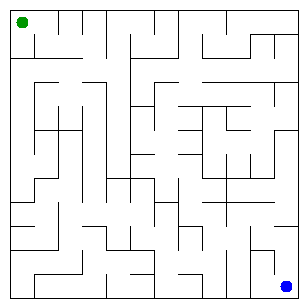
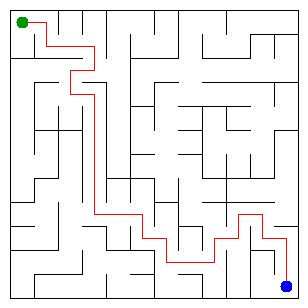
Implement Mission 3 with iterative DFS

diff --git a/output/maze.html b/output/maze.html
@@ -24,7 +24,7 @@ button{font:inherit;padding:3px 10px;border:1px solid #999;background:#fff;borde
 <div id="wrap"><canvas id="cv"></canvas></div>
 <div id="info"></div>
 <script>
-const D = {"rows":12,"cols":12,"a":[0, 24, 66, 119, 62, 42, 78, 57, 126, 94, 126, 69, 102, 26, 30, 56, 121, 70, 6, 110, 9, 38, 134, 105, 120, 105, 63, 77, 3, 28, 131, 124, 123, 14, 64, 120, 20, 115, 48, 97, 68, 136, 101, 23, 43, 99, 39, 31, 10, 116, 29, 45, 37, 37, 106, 116, 31, 60, 79, 46, 91, 130, 8, 106, 15, 26, 53, 83, 72, 27, 111, 1, 54, 72, 17, 51, 114, 66, 42, 36, 4, 104, 32, 29, 95, 71, 52, 108, 96, 118, 127, 88, 85, 124, 138, 5, 58, 91, 100, 94, 89, 110, 117, 44, 16, 40, 98, 103, 65, 68, 25, 100, 61, 38, 98, 87, 19, 117, 69, 133, 4, 7, 115, 7, 58, 82, 13, 24, 57, 114, 3, 75, 85, 33, 34, 14, 45, 32, 16, 113, 59, 129, 52, 128, 86, 84, 25, 70, 48, 122, 22, 93, 123, 56, 81, 102, 67, 15, 142, 74, 2, 21, 82, 51, 86, 79, 53, 93, 140, 61, 27, 64, 0, 88, 128, 49, 54, 18, 96, 87, 118, 97, 121, 9, 74, 101, 132, 125, 30, 40, 77, 81, 76, 109, 139, 99, 107, 73, 12, 20, 11, 43, 78, 44, 89, 65, 127, 55, 47, 112, 46, 111, 2, 19, 13, 80, 130, 22, 129, 17, 50, 103, 63, 125, 108, 84, 10, 33, 90, 67, 104, 36, 5, 141, 109, 55, 62, 80, 92, 34, 21, 50, 6, 28, 75, 8, 41, 90, 92, 39, 35, 41, 112, 137, 135, 12, 1, 73, 122, 18, 76, 49, 60, 113],"b":[1, 36, 67, 131, 74, 43, 79, 58, 127, 95, 138, 81, 114, 38, 31, 68, 122, 82, 18, 111, 10, 39, 135, 106, 121, 117, 75, 78, 15, 40, 143, 136, 124, 15, 76, 132, 21, 127, 60, 109, 80, 137, 113, 35, 44, 100, 51, 32, 11, 128, 30, 46, 38, 49, 118, 117, 43, 72, 91, 58, 103, 142, 20, 107, 27, 27, 65, 95, 84, 28, 123, 13, 66, 73, 18, 63, 126, 78, 54, 48, 16, 116, 33, 41, 107, 83, 64, 109, 97, 119, 128, 100, 86, 125, 139, 17, 70, 92, 112, 106, 101, 122, 118, 45, 28, 52, 99, 104, 66, 69, 26, 101, 73, 50, 110, 99, 31, 129, 70, 134, 5, 8, 116, 19, 59, 83, 14, 25, 69, 115, 4, 87, 97, 34, 35, 26, 57, 44, 17, 114, 71, 141, 53, 140, 98, 85, 37, 71, 49, 123, 34, 94, 135, 57, 82, 103, 68, 16, 143, 86, 14, 33, 94, 52, 87, 80, 54, 105, 141, 62, 39, 65, 12, 89, 129, 50, 55, 30, 108, 88, 130, 98, 133, 21, 75, 102, 133, 126, 42, 41, 89, 93, 88, 121, 140, 111, 119, 85, 24, 32, 23, 55, 90, 56, 90, 77, 139, 56, 59, 124, 47, 112, 3, 20, 25, 81, 131, 23, 130, 29, 51, 115, 64, 137, 120, 96, 22, 45, 91, 79, 105, 37, 6, 142, 110, 67, 63, 92, 93, 46, 22, 62, 7, 29, 76, 9, 53, 102, 104, 40, 47, 42, 113, 138, 136, 13, 2, 74, 134, 19, 77, 61, 61, 125],"cost":[971, 631, 861, 744, 554, 288, 562, 275, 91, 354, 403, 489, 539, 455, 191, 434, 854, 534, 660, 330, 184, 634, 374, 105, 21, 517, 218, 813, 392, 400, 565, 68, 263, 461, 853, 538, 2, 37, 510, 925, 112, 5, 871, 341, 246, 92, 314, 880, 280, 984, 588, 6, 74, 604, 205, 532, 10, 933, 431, 132, 321, 765, 515, 332, 254, 282, 555, 344, 916, 243, 910, 978, 23, 998, 893, 422, 623, 683, 331, 833, 784, 177, 247, 104, 160, 164, 189, 56, 881, 391, 637, 636, 603, 943, 737, 648, 208, 284, 646, 230, 577, 103, 768, 454, 865, 77, 15, 990, 523, 675, 87, 52, 828, 589, 788, 121, 249, 404, 632, 168, 289, 11, 864, 172, 39, 977, 750, 81, 60, 148, 622, 670, 749, 908, 405, 566, 395, 475, 418, 95, 113, 689, 333, 866, 425, 226, 754, 981, 200, 862, 363, 44, 546, 460, 849, 582, 686, 438, 952, 237, 466, 760, 83, 109, 696, 424, 969, 484, 238, 847, 244, 149, 281, 99, 504, 518, 673, 213, 228, 163, 624, 820, 917, 669, 313, 672, 173, 186, 905, 844, 777, 558, 79, 98, 80, 265, 899, 193, 530, 118, 979, 474, 428, 552, 488, 937, 727, 396, 20, 920, 493, 107, 117, 348, 41, 635, 397, 578, 49, 353, 591, 143, 945, 286, 470, 730, 457, 63, 152, 365, 429, 204, 630, 988, 769, 884, 494, 873, 487, 96, 936, 33, 469, 845, 307, 842, 872, 994, 355, 1, 868, 535, 805, 964, 364, 90, 924, 967, 757, 869, 767, 381, 306, 53],"open":[1,1,1,1,1,1,1,1,1,1,1,1,1,1,1,1,1,1,1,1,1,1,1,1,1,1,1,1,1,1,1,1,1,1,1,1,1,1,1,1,1,1,1,1,1,1,1,1,1,1,1,1,1,1,1,1,1,1,1,1,1,1,1,1,1,1,1,1,1,1,1,1,1,1,1,1,1,1,1,1,1,1,1,1,1,1,1,1,1,1,1,1,1,1,1,1,1,1,1,0,1,1,0,1,1,1,1,1,1,1,1,1,1,1,1,1,1,1,1,1,1,1,0,1,1,0,1,1,0,0,0,1,1,1,1,0,0,0,0,1,0,1,0,1,1,0,0,0,0,0,1,1,1,0,0,0,0,0,1,1,1,0,0,0,0,0,0,0,0,0,0,0,1,0,0,0,1,0,0,0,0,0,0,1,0,0,0,0,0,0,0,0,0,0,0,0,0,0,0,0,0,0,1,0,0,0,0,0,1,0,0,0,0,0,0,0,0,0,0,0,0,0,0,0,0,0,0,0,0,0,0,0,0,0,0,0,0,0,0,0,0,0,0,0,0,0,0,0,0,0,0,0,0,0,0,0,0,0,0,0,0,0,0,0],"order":[0, 1, 2, 3, 4, 5, 6, 7, 8, 9, 10, 11, 12, 13, 14, 15, 16, 17, 18, 19, 20, 21, 22, 23, 24, 25, 26, 27, 28, 29, 30, 31, 32, 33, 34, 35, 36, 37, 38, 39, 40, 41, 42, 43, 44, 45, 46, 47, 48, 49, 50, 51, 52, 53, 54, 55, 56, 57, 58, 59, 60, 61, 62, 63, 64, 65, 66, 67, 68, 69, 70, 71, 72, 73, 74, 75, 76, 77, 78, 79, 80, 81, 82, 83, 84, 85, 86, 87, 88, 89, 90, 91, 92, 93, 94, 95, 96, 97, 98, 100, 101, 103, 104, 105, 106, 107, 108, 109, 110, 111, 112, 113, 114, 115, 116, 117, 118, 119, 120, 121, 123, 124, 126, 127, 131, 132, 133, 134, 139, 141, 143, 144, 150, 151, 152, 158, 159, 160, 172, 176, 183, 202, 208],"path":[],"zone":[0, 0, 0, 0, 0, 0, 0, 0, 0, 0, 0, 0, 0, 0, 0, 0, 0, 0, 0, 0, 0, 0, 0, 0, 0, 0, 0, 0, 0, 0, 0, 0, 0, 0, 0, 0, 0, 0, 0, 0, 0, 0, 0, 0, 0, 0, 0, 0, 0, 0, 0, 0, 0, 0, 0, 0, 0, 0, 0, 0, 0, 0, 0, 0, 0, 0, 0, 0, 0, 0, 0, 0, 0, 0, 0, 0, 0, 0, 0, 0, 0, 0, 0, 0, 0, 0, 0, 0, 0, 0, 0, 0, 0, 0, 0, 0, 0, 0, 0, 0, 0, 0, 0, 0, 0, 0, 0, 0, 0, 0, 0, 0, 0, 0, 0, 0, 0, 0, 0, 0, 0, 0, 0, 0, 0, 0, 0, 0, 0, 0, 0, 0, 0, 0, 0, 0, 0, 0, 0, 0, 0, 0, 0, 0],"from":[7, 58, 105, 71, 31, 118, 96, 54, 74, 27, 34, 20, 132, 129, 10, 109, 62, 53, 62, 0, 68, 121, 83, 136, 62, 42, 127, 102, 32, 76, 44, 88, 37, 83, 4, 2, 22, 84, 59, 36, 67, 95, 124, 28, 44, 16, 93, 110, 92, 15, 95, 81, 97, 41, 31, 14, 83, 19, 76, 91, 101, 108, 39, 37, 125, 52, 5, 18, 69, 21, 51, 123, 45, 50, 106, 110, 43, 115, 106, 83, 117, 3, 124, 89, 105, 104, 63, 23, 116, 128, 96, 73, 61, 87, 51, 72, 9, 10, 75, 76, 64, 90, 53, 28, 122, 103, 34, 62, 75, 130, 79, 138, 55, 76, 89, 6, 107, 101, 78, 85, 35, 4, 106, 113, 99, 17, 1, 56, 51, 134, 100, 112, 108, 111, 29, 77, 82, 141, 60, 67, 98, 20, 120, 131, 98, 48, 12, 108, 66, 51, 119, 30, 39, 46, 48, 92, 26, 13, 134, 126, 86, 5, 78, 57, 95, 38, 65, 49, 70, 57, 23, 133, 142, 43, 135, 47, 11, 23, 68, 114, 24, 22, 20, 143, 86, 140, 90, 96, 80, 81, 11, 139, 19, 33, 94, 137, 25, 108, 53, 8, 40],"to":[43, 42, 3, 70, 69, 20, 102, 91, 97, 49, 78, 118, 22, 122, 143, 32, 137, 103, 84, 56, 19, 73, 62, 7, 17, 96, 19, 105, 6, 25, 29, 124, 24, 100, 86, 14, 42, 23, 94, 41, 138, 60, 5, 117, 47, 101, 52, 117, 83, 114, 69, 65, 27, 24, 143, 9, 108, 58, 57, 61, 54, 139, 105, 83, 109, 12, 22, 95, 40, 55, 89, 141, 130, 10, 73, 132, 77, 126, 50, 92, 64, 11, 120, 117, 103, 34, 121, 113, 123, 111, 91, 44, 58, 136, 110, 2, 29, 14, 66, 62, 68, 11, 138, 30, 1, 66, 116, 108, 104, 98, 110, 103, 125, 50, 51, 80, 90, 46, 31, 88, 36, 132, 44, 26, 85, 37, 119, 84, 7, 76, 79, 99, 29, 13, 106, 21, 72, 82, 75, 53, 39, 33, 35, 102, 24, 115, 8, 75, 131, 100, 142, 4, 71, 115, 128, 0, 137, 77, 137, 16, 19, 112, 104, 31, 97, 93, 15, 129, 5, 134, 98, 51, 59, 81, 57, 116, 140, 108, 28, 118, 45, 107, 75, 63, 100, 67, 127, 46, 38, 43, 105, 121, 133, 87, 74, 135, 62, 114, 3, 48, 18],"time":[6, 17, 1, 19, 4, 5, 16, 3, 10, 18, 2, 5, 8, 2, 17, 2, 18, 1, 12, 12, 8, 10, 20, 11, 7, 17, 6, 12, 20, 12, 7, 6, 5, 1, 1, 18, 8, 20, 6, 13, 20, 7, 9, 7, 19, 8, 1, 19, 2, 11, 8, 15, 19, 20, 15, 4, 15, 14, 1, 8, 6, 3, 7, 3, 2, 7, 15, 9, 18, 5, 9, 14, 9, 3, 16, 15, 18, 17, 6, 8, 14, 18, 15, 9, 4, 8, 1, 20, 2, 11, 1, 9, 11, 15, 3, 6, 19, 16, 15, 18, 2, 12, 1, 2, 2, 19, 20, 17, 11, 16, 18, 20, 13, 16, 11, 18, 18, 15, 14, 19, 11, 3, 13, 8, 6, 17, 19, 11, 18, 17, 19, 12, 8, 16, 2, 12, 18, 13, 10, 1, 8, 9, 14, 4, 9, 18, 18, 8, 17, 12, 1, 18, 9, 1, 4, 13, 17, 4, 4, 4, 3, 17, 20, 12, 4, 5, 10, 12, 16, 15, 12, 19, 7, 3, 14, 2, 20, 18, 2, 13, 8, 20, 17, 7, 4, 9, 6, 14, 6, 11, 4, 13, 12, 10, 9, 19, 6, 12, 16, 11, 10]};
+const D = {"rows":12,"cols":12,"a":[0, 24, 66, 119, 62, 42, 78, 57, 126, 94, 126, 69, 102, 26, 30, 56, 121, 70, 6, 110, 9, 38, 134, 105, 120, 105, 63, 77, 3, 28, 131, 124, 123, 14, 64, 120, 20, 115, 48, 97, 68, 136, 101, 23, 43, 99, 39, 31, 10, 116, 29, 45, 37, 37, 106, 116, 31, 60, 79, 46, 91, 130, 8, 106, 15, 26, 53, 83, 72, 27, 111, 1, 54, 72, 17, 51, 114, 66, 42, 36, 4, 104, 32, 29, 95, 71, 52, 108, 96, 118, 127, 88, 85, 124, 138, 5, 58, 91, 100, 94, 89, 110, 117, 44, 16, 40, 98, 103, 65, 68, 25, 100, 61, 38, 98, 87, 19, 117, 69, 133, 4, 7, 115, 7, 58, 82, 13, 24, 57, 114, 3, 75, 85, 33, 34, 14, 45, 32, 16, 113, 59, 129, 52, 128, 86, 84, 25, 70, 48, 122, 22, 93, 123, 56, 81, 102, 67, 15, 142, 74, 2, 21, 82, 51, 86, 79, 53, 93, 140, 61, 27, 64, 0, 88, 128, 49, 54, 18, 96, 87, 118, 97, 121, 9, 74, 101, 132, 125, 30, 40, 77, 81, 76, 109, 139, 99, 107, 73, 12, 20, 11, 43, 78, 44, 89, 65, 127, 55, 47, 112, 46, 111, 2, 19, 13, 80, 130, 22, 129, 17, 50, 103, 63, 125, 108, 84, 10, 33, 90, 67, 104, 36, 5, 141, 109, 55, 62, 80, 92, 34, 21, 50, 6, 28, 75, 8, 41, 90, 92, 39, 35, 41, 112, 137, 135, 12, 1, 73, 122, 18, 76, 49, 60, 113],"b":[1, 36, 67, 131, 74, 43, 79, 58, 127, 95, 138, 81, 114, 38, 31, 68, 122, 82, 18, 111, 10, 39, 135, 106, 121, 117, 75, 78, 15, 40, 143, 136, 124, 15, 76, 132, 21, 127, 60, 109, 80, 137, 113, 35, 44, 100, 51, 32, 11, 128, 30, 46, 38, 49, 118, 117, 43, 72, 91, 58, 103, 142, 20, 107, 27, 27, 65, 95, 84, 28, 123, 13, 66, 73, 18, 63, 126, 78, 54, 48, 16, 116, 33, 41, 107, 83, 64, 109, 97, 119, 128, 100, 86, 125, 139, 17, 70, 92, 112, 106, 101, 122, 118, 45, 28, 52, 99, 104, 66, 69, 26, 101, 73, 50, 110, 99, 31, 129, 70, 134, 5, 8, 116, 19, 59, 83, 14, 25, 69, 115, 4, 87, 97, 34, 35, 26, 57, 44, 17, 114, 71, 141, 53, 140, 98, 85, 37, 71, 49, 123, 34, 94, 135, 57, 82, 103, 68, 16, 143, 86, 14, 33, 94, 52, 87, 80, 54, 105, 141, 62, 39, 65, 12, 89, 129, 50, 55, 30, 108, 88, 130, 98, 133, 21, 75, 102, 133, 126, 42, 41, 89, 93, 88, 121, 140, 111, 119, 85, 24, 32, 23, 55, 90, 56, 90, 77, 139, 56, 59, 124, 47, 112, 3, 20, 25, 81, 131, 23, 130, 29, 51, 115, 64, 137, 120, 96, 22, 45, 91, 79, 105, 37, 6, 142, 110, 67, 63, 92, 93, 46, 22, 62, 7, 29, 76, 9, 53, 102, 104, 40, 47, 42, 113, 138, 136, 13, 2, 74, 134, 19, 77, 61, 61, 125],"cost":[971, 631, 861, 744, 554, 288, 562, 275, 91, 354, 403, 489, 539, 455, 191, 434, 854, 534, 660, 330, 184, 634, 374, 105, 21, 517, 218, 813, 392, 400, 565, 68, 263, 461, 853, 538, 2, 37, 510, 925, 112, 5, 871, 341, 246, 92, 314, 880, 280, 984, 588, 6, 74, 604, 205, 532, 10, 933, 431, 132, 321, 765, 515, 332, 254, 282, 555, 344, 916, 243, 910, 978, 23, 998, 893, 422, 623, 683, 331, 833, 784, 177, 247, 104, 160, 164, 189, 56, 881, 391, 637, 636, 603, 943, 737, 648, 208, 284, 646, 230, 577, 103, 768, 454, 865, 77, 15, 990, 523, 675, 87, 52, 828, 589, 788, 121, 249, 404, 632, 168, 289, 11, 864, 172, 39, 977, 750, 81, 60, 148, 622, 670, 749, 908, 405, 566, 395, 475, 418, 95, 113, 689, 333, 866, 425, 226, 754, 981, 200, 862, 363, 44, 546, 460, 849, 582, 686, 438, 952, 237, 466, 760, 83, 109, 696, 424, 969, 484, 238, 847, 244, 149, 281, 99, 504, 518, 673, 213, 228, 163, 624, 820, 917, 669, 313, 672, 173, 186, 905, 844, 777, 558, 79, 98, 80, 265, 899, 193, 530, 118, 979, 474, 428, 552, 488, 937, 727, 396, 20, 920, 493, 107, 117, 348, 41, 635, 397, 578, 49, 353, 591, 143, 945, 286, 470, 730, 457, 63, 152, 365, 429, 204, 630, 988, 769, 884, 494, 873, 487, 96, 936, 33, 469, 845, 307, 842, 872, 994, 355, 1, 868, 535, 805, 964, 364, 90, 924, 967, 757, 869, 767, 381, 306, 53],"open":[1,1,1,1,1,1,1,1,1,1,1,1,1,1,1,1,1,1,1,1,1,1,1,1,1,1,1,1,1,1,1,1,1,1,1,1,1,1,1,1,1,1,1,1,1,1,1,1,1,1,1,1,1,1,1,1,1,1,1,1,1,1,1,1,1,1,1,1,1,1,1,1,1,1,1,1,1,1,1,1,1,1,1,1,1,1,1,1,1,1,1,1,1,1,1,1,1,1,1,0,1,1,0,1,1,1,1,1,1,1,1,1,1,1,1,1,1,1,1,1,1,1,0,1,1,0,1,1,0,0,0,1,1,1,1,0,0,0,0,1,0,1,0,1,1,0,0,0,0,0,1,1,1,0,0,0,0,0,1,1,1,0,0,0,0,0,0,0,0,0,0,0,1,0,0,0,1,0,0,0,0,0,0,1,0,0,0,0,0,0,0,0,0,0,0,0,0,0,0,0,0,0,1,0,0,0,0,0,1,0,0,0,0,0,0,0,0,0,0,0,0,0,0,0,0,0,0,0,0,0,0,0,0,0,0,0,0,0,0,0,0,0,0,0,0,0,0,0,0,0,0,0,0,0,0,0,0,0,0,0,0,0,0,0],"order":[0, 1, 2, 3, 4, 5, 6, 7, 8, 9, 10, 11, 12, 13, 14, 15, 16, 17, 18, 19, 20, 21, 22, 23, 24, 25, 26, 27, 28, 29, 30, 31, 32, 33, 34, 35, 36, 37, 38, 39, 40, 41, 42, 43, 44, 45, 46, 47, 48, 49, 50, 51, 52, 53, 54, 55, 56, 57, 58, 59, 60, 61, 62, 63, 64, 65, 66, 67, 68, 69, 70, 71, 72, 73, 74, 75, 76, 77, 78, 79, 80, 81, 82, 83, 84, 85, 86, 87, 88, 89, 90, 91, 92, 93, 94, 95, 96, 97, 98, 100, 101, 103, 104, 105, 106, 107, 108, 109, 110, 111, 112, 113, 114, 115, 116, 117, 118, 119, 120, 121, 123, 124, 126, 127, 131, 132, 133, 134, 139, 141, 143, 144, 150, 151, 152, 158, 159, 160, 172, 176, 183, 202, 208],"path":[0, 1, 13, 14, 15, 27, 26, 38, 39, 51, 63, 75, 87, 99, 100, 101, 113, 114, 126, 127, 128, 116, 117, 105, 106, 118, 119, 131, 143],"zone":[0, 0, 0, 0, 0, 0, 0, 0, 0, 0, 0, 0, 0, 0, 0, 0, 0, 0, 0, 0, 0, 0, 0, 0, 0, 0, 0, 0, 0, 0, 0, 0, 0, 0, 0, 0, 0, 0, 0, 0, 0, 0, 0, 0, 0, 0, 0, 0, 0, 0, 0, 0, 0, 0, 0, 0, 0, 0, 0, 0, 0, 0, 0, 0, 0, 0, 0, 0, 0, 0, 0, 0, 0, 0, 0, 0, 0, 0, 0, 0, 0, 0, 0, 0, 0, 0, 0, 0, 0, 0, 0, 0, 0, 0, 0, 0, 0, 0, 0, 0, 0, 0, 0, 0, 0, 0, 0, 0, 0, 0, 0, 0, 0, 0, 0, 0, 0, 0, 0, 0, 0, 0, 0, 0, 0, 0, 0, 0, 0, 0, 0, 0, 0, 0, 0, 0, 0, 0, 0, 0, 0, 0, 0, 0],"from":[7, 58, 105, 71, 31, 118, 96, 54, 74, 27, 34, 20, 132, 129, 10, 109, 62, 53, 62, 0, 68, 121, 83, 136, 62, 42, 127, 102, 32, 76, 44, 88, 37, 83, 4, 2, 22, 84, 59, 36, 67, 95, 124, 28, 44, 16, 93, 110, 92, 15, 95, 81, 97, 41, 31, 14, 83, 19, 76, 91, 101, 108, 39, 37, 125, 52, 5, 18, 69, 21, 51, 123, 45, 50, 106, 110, 43, 115, 106, 83, 117, 3, 124, 89, 105, 104, 63, 23, 116, 128, 96, 73, 61, 87, 51, 72, 9, 10, 75, 76, 64, 90, 53, 28, 122, 103, 34, 62, 75, 130, 79, 138, 55, 76, 89, 6, 107, 101, 78, 85, 35, 4, 106, 113, 99, 17, 1, 56, 51, 134, 100, 112, 108, 111, 29, 77, 82, 141, 60, 67, 98, 20, 120, 131, 98, 48, 12, 108, 66, 51, 119, 30, 39, 46, 48, 92, 26, 13, 134, 126, 86, 5, 78, 57, 95, 38, 65, 49, 70, 57, 23, 133, 142, 43, 135, 47, 11, 23, 68, 114, 24, 22, 20, 143, 86, 140, 90, 96, 80, 81, 11, 139, 19, 33, 94, 137, 25, 108, 53, 8, 40],"to":[43, 42, 3, 70, 69, 20, 102, 91, 97, 49, 78, 118, 22, 122, 143, 32, 137, 103, 84, 56, 19, 73, 62, 7, 17, 96, 19, 105, 6, 25, 29, 124, 24, 100, 86, 14, 42, 23, 94, 41, 138, 60, 5, 117, 47, 101, 52, 117, 83, 114, 69, 65, 27, 24, 143, 9, 108, 58, 57, 61, 54, 139, 105, 83, 109, 12, 22, 95, 40, 55, 89, 141, 130, 10, 73, 132, 77, 126, 50, 92, 64, 11, 120, 117, 103, 34, 121, 113, 123, 111, 91, 44, 58, 136, 110, 2, 29, 14, 66, 62, 68, 11, 138, 30, 1, 66, 116, 108, 104, 98, 110, 103, 125, 50, 51, 80, 90, 46, 31, 88, 36, 132, 44, 26, 85, 37, 119, 84, 7, 76, 79, 99, 29, 13, 106, 21, 72, 82, 75, 53, 39, 33, 35, 102, 24, 115, 8, 75, 131, 100, 142, 4, 71, 115, 128, 0, 137, 77, 137, 16, 19, 112, 104, 31, 97, 93, 15, 129, 5, 134, 98, 51, 59, 81, 57, 116, 140, 108, 28, 118, 45, 107, 75, 63, 100, 67, 127, 46, 38, 43, 105, 121, 133, 87, 74, 135, 62, 114, 3, 48, 18],"time":[6, 17, 1, 19, 4, 5, 16, 3, 10, 18, 2, 5, 8, 2, 17, 2, 18, 1, 12, 12, 8, 10, 20, 11, 7, 17, 6, 12, 20, 12, 7, 6, 5, 1, 1, 18, 8, 20, 6, 13, 20, 7, 9, 7, 19, 8, 1, 19, 2, 11, 8, 15, 19, 20, 15, 4, 15, 14, 1, 8, 6, 3, 7, 3, 2, 7, 15, 9, 18, 5, 9, 14, 9, 3, 16, 15, 18, 17, 6, 8, 14, 18, 15, 9, 4, 8, 1, 20, 2, 11, 1, 9, 11, 15, 3, 6, 19, 16, 15, 18, 2, 12, 1, 2, 2, 19, 20, 17, 11, 16, 18, 20, 13, 16, 11, 18, 18, 15, 14, 19, 11, 3, 13, 8, 6, 17, 19, 11, 18, 17, 19, 12, 8, 16, 2, 12, 18, 13, 10, 1, 8, 9, 14, 4, 9, 18, 18, 8, 17, 12, 1, 18, 9, 1, 4, 13, 17, 4, 4, 4, 3, 17, 20, 12, 4, 5, 10, 12, 16, 15, 12, 19, 7, 3, 14, 2, 20, 18, 2, 13, 8, 20, 17, 7, 4, 9, 6, 14, 6, 11, 4, 13, 12, 10, 9, 19, 6, 12, 16, 11, 10]};
 const R = D.rows, C = D.cols, N = R * C;
 const M = 14;
 let S = Math.max(14, Math.min(48, Math.floor((Math.min(window.innerWidth, 1100) - 60) / C)));

diff --git a/src/Escape.java b/src/Escape.java
@@ -1,3 +1,5 @@
+import java.util.Arrays;
+
 /**
  * Mission 3. Escape: DFS from cell 0 to the last cell (rows * cols - 1) in the maze of Mission 1.
  * Two neighbouring cells are connected when the wall between them is broken.
@@ -16,7 +18,83 @@ public class Escape {
     public record Result(int[] path, int visited, int deadEnds) {}
 
     public static Result escape(Input.Walls w, int[] broken) {
-        // TODO
-        return new Result(new int[0], 0, 0);
+        int n = w.cells();
+        int cols = w.cols();
+        int exit = n - 1;
+        int[][] graph = Graphs.open(w, broken);
+
+        int deadEnds = 0;
+        for (int cell = 0; cell < n; cell++) {
+            if (graph[cell].length == 1) {
+                deadEnds++;
+            }
+        }
+
+        boolean[] visited = new boolean[n];
+        int[] parent = new int[n];
+        Arrays.fill(parent, -1);
+
+        // Each cell remembers which direction DFS should try next.
+        int[] nextDirection = new int[n];
+        int[] stack = new int[n];
+        int top = 0;
+        stack[top] = 0;
+        visited[0] = true;
+        int visitedCount = 1;
+
+        while (top >= 0 && !visited[exit]) {
+            int cell = stack[top];
+
+            if (nextDirection[cell] == 4) {
+                top--;
+                continue;
+            }
+
+            int direction = nextDirection[cell]++;
+            int next = switch (direction) {
+                case 0 -> cell >= cols ? cell - cols : -1;       // up
+                case 1 -> cell % cols < cols - 1 ? cell + 1 : -1; // right
+                case 2 -> cell + cols < n ? cell + cols : -1;     // down
+                default -> cell % cols > 0 ? cell - 1 : -1;      // left
+            };
+
+            if (next == -1 || visited[next]) {
+                continue;
+            }
+
+            boolean open = false;
+            for (int neighbour : graph[cell]) {
+                if (neighbour == next) {
+                    open = true;
+                    break;
+                }
+            }
+
+            if (open) {
+                parent[next] = cell;
+                visited[next] = true;
+                visitedCount++;
+                stack[++top] = next;
+            }
+        }
+
+        if (!visited[exit]) {
+            return new Result(new int[0], visitedCount, deadEnds);
+        }
+
+        // Follow parents backwards, filling the path from its end.
+        int length = 0;
+        for (int cell = exit; cell != -1; cell = parent[cell]) {
+            length++;
+        }
+
+        int[] path = new int[length];
+        int cell = exit;
+        for (int i = length - 1; i >= 0; i--) {
+            path[i] = cell;
+            cell = parent[cell];
+        }
+
+        return new Result(path, visitedCount, deadEnds);
     }
 }
